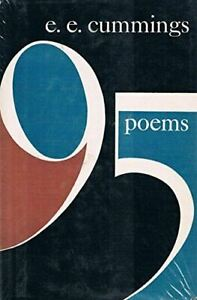
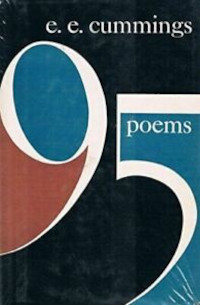
Trimmed down images for the homepage and got the heights and widths hardcoded into the HTML for performance

diff --git a/index.html b/index.html
@@ -24,6 +24,8 @@
     <a href="/book/{{ book.slug }}/">
       <div class="book__cover">
           <img src="{% static '/assets/img/' + book.img.src %}"
+               {% if book.img.width %}width="{{ book.img.width }}"{% endif %}
+               {% if book.img.height %}height="{{ book.img.height }}"{% endif %}
                alt="{{ book.title }} >">
       </div>
       <div class="book__title">{{ book.title }}</div>
